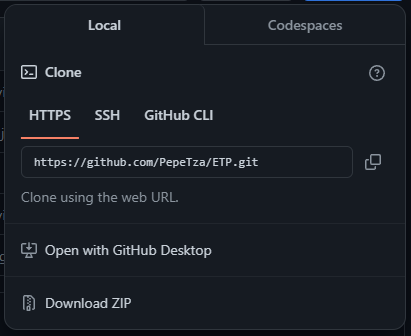
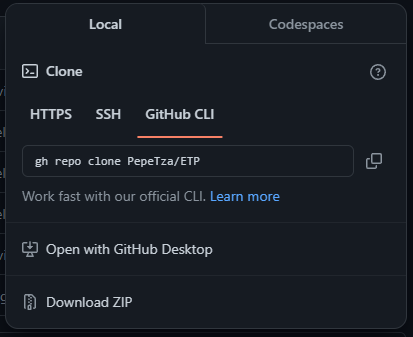
Termine

diff --git a/README.md b/README.md
@@ -14,4 +14,8 @@ Dependencias {
     "ws": "^8.16.0"
 }
 
+Pude comprobar que al usar esta opcion el juego corre bien, recomiendo usarla al probarlo, solo asegurese de estar en la carpeta del proyecto
+
 ![Alt text](image.png)
+
+PD: Dios en ti confio
